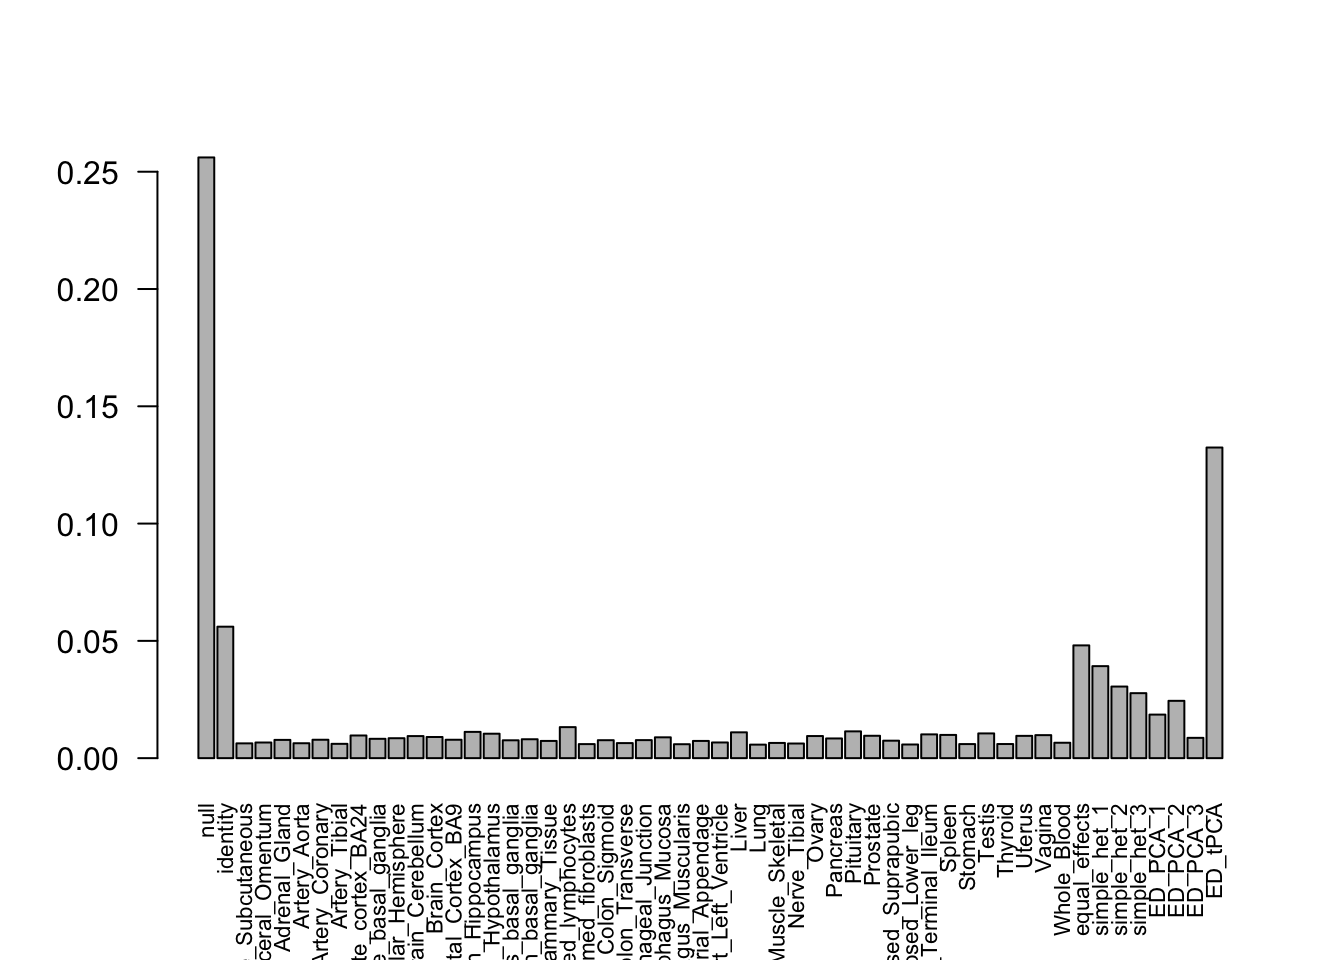
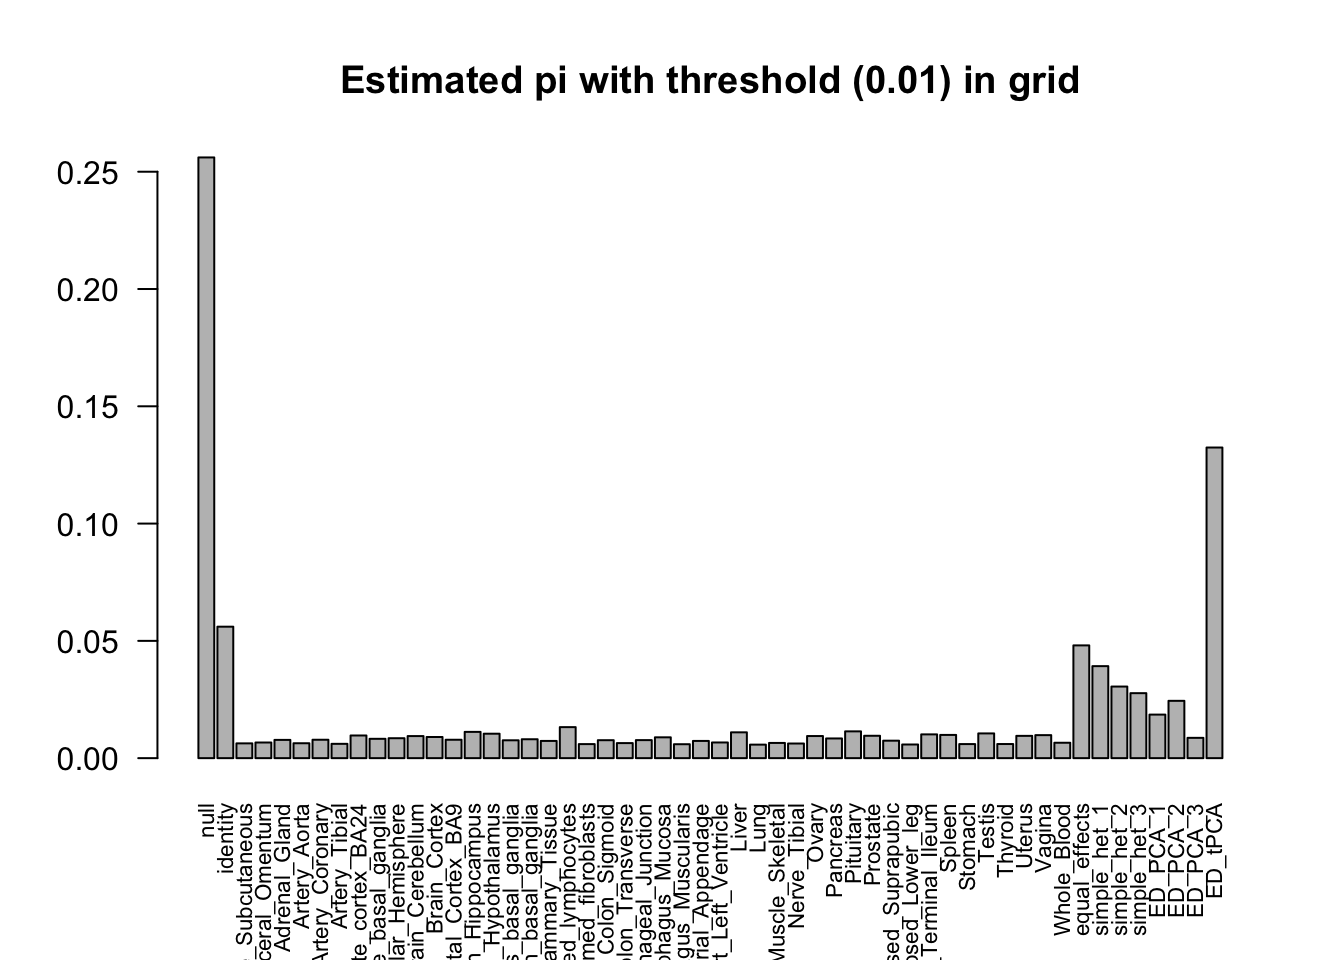
Build site.

Changed region(s): [[0.25, 0.0625, 0.8125, 0.125]]

diff --git a/docs/MashLowSignalGTEx3.5.html b/docs/MashLowSignalGTEx3.5.html
@@ -365,7 +365,7 @@ div.section {
 </details>
 </li>
 <li>
-<p><details> <summary> <strong style="color:blue;">✔</strong> <strong>Repository version:</strong> <a href="https://github.com/zouyuxin/mash_application/tree/ef3e8e3743b94c08abe07d7094e57886d54ce0db" target="_blank">ef3e8e3</a> </summary></p>
+<p><details> <summary> <strong style="color:blue;">✔</strong> <strong>Repository version:</strong> <a href="https://github.com/zouyuxin/mash_application/tree/f17adecfa5339b12f5823d3b1c12d9497f1f21fb" target="_blank">f17adec</a> </summary></p>
 Great! You are using Git for version control. Tracking code development and connecting the code version to the results is critical for reproducibility. The version displayed above was the version of the Git repository at the time these results were generated. <br><br> Note that you need to be careful to ensure that all relevant files for the analysis have been committed to Git prior to generating the results (you can use <code>wflow_publish</code> or <code>wflow_git_commit</code>). workflowr only checks the R Markdown file, but you know if there are other scripts or data files that it depends on. Below is the status of the Git repository when the results were generated:
 <pre><code>
 Ignored files:
@@ -509,6 +509,40 @@ Message
 Rmd
 </td>
 <td style="text-align:left;">
+<a href="https://github.com/zouyuxin/mash_application/blob/f17adecfa5339b12f5823d3b1c12d9497f1f21fb/analysis/MashLowSignalGTEx3.5.Rmd" target="_blank">f17adec</a>
+</td>
+<td style="text-align:left;">
+zouyuxin
+</td>
+<td style="text-align:left;">
+2018-08-31
+</td>
+<td style="text-align:left;">
+wflow_publish(“analysis/MashLowSignalGTEx3.5.Rmd”)
+</td>
+</tr>
+<tr>
+<td style="text-align:left;">
+html
+</td>
+<td style="text-align:left;">
+<a href="https://cdn.rawgit.com/zouyuxin/mash_application/e1bff266890d2b8d306d4a64cb6220683c31ce40/docs/MashLowSignalGTEx3.5.html" target="_blank">e1bff26</a>
+</td>
+<td style="text-align:left;">
+zouyuxin
+</td>
+<td style="text-align:left;">
+2018-08-31
+</td>
+<td style="text-align:left;">
+Build site.
+</td>
+</tr>
+<tr>
+<td style="text-align:left;">
+Rmd
+</td>
+<td style="text-align:left;">
 <a href="https://github.com/zouyuxin/mash_application/blob/ef3e8e3743b94c08abe07d7094e57886d54ce0db/analysis/MashLowSignalGTEx3.5.Rmd" target="_blank">ef3e8e3</a>
 </td>
 <td style="text-align:left;">
@@ -633,7 +667,7 @@ wflow_publish(“analysis/MashLowSignalGTEx3.5.Rmd”)
 <pre class="r"><code>library(knitr)
 library(kableExtra)</code></pre>
 <p>There are two random sets in the <a href="https://github.com/stephenslab/gtexresults/blob/master/data/MatrixEQTLSumStats.Portable.Z.rds?raw=TRUE">GTEx summary data set</a>. We don’t know the null in the real data. If we have the individual level data, we can do a permutation to generate null. With the summary statistics, we select the null set using threshold on z scores.</p>
-<p>Using qvalues 0.05 as the threshold, the corresponding non-significant |z| value is around 3.1. Since lfsr and lfdr are both more conservative than q values, we select the samples with <span class="math inline">\(\max_{r} |Z_{jr}| &lt; 3.5\)</span> from each data set as the null set. We estimate data driven covariance matrices from data 1, estimate noise correlation from data 2, fit mash model on data 2 and calculate posterior on data 1.</p>
+<p>Using qvalues 0.05 as the threshold, the corresponding non-significant |z| values are less than 3.5. We select the samples with <span class="math inline">\(\max_{r} |Z_{jr}| &lt; 3.5\)</span> from each data set as the null set. We estimate data driven covariance matrices from data 1, estimate noise correlation from data 2, fit mash model on data 2 and calculate posterior on data 1.</p>
 <pre class="r"><code>data = readRDS(&#39;../output/GTEx_3.5_nullData.rds&#39;)
 model = readRDS(&#39;../output/GTEx_3.5_nullModel.rds&#39;)</code></pre>
 <p>Sample size:</p>
@@ -660,8 +694,39 @@ data 2
 </tr>
 </tbody>
 </table>
+<p>The estimated weights from data 2 is</p>
 <pre class="r"><code>barplot(get_estimated_pi(model), las=2, cex.names = 0.7)</code></pre>
 <p><img src="figure/MashLowSignalGTEx3.5.Rmd/unnamed-chunk-4-1.png" width="672" style="display: block; margin: auto;" /></p>
+<details> <summary><em>Expand here to see past versions of unnamed-chunk-4-1.png:</em></summary>
+<table style="border-collapse:separate; border-spacing:5px;">
+<thead>
+<tr>
+<th style="text-align:left;">
+Version
+</th>
+<th style="text-align:left;">
+Author
+</th>
+<th style="text-align:left;">
+Date
+</th>
+</tr>
+</thead>
+<tbody>
+<tr>
+<td style="text-align:left;">
+<a href="https://github.com/zouyuxin/mash_application/blob/e1bff266890d2b8d306d4a64cb6220683c31ce40/docs/figure/MashLowSignalGTEx3.5.Rmd/unnamed-chunk-4-1.png" target="_blank">e1bff26</a>
+</td>
+<td style="text-align:left;">
+zouyuxin
+</td>
+<td style="text-align:left;">
+2018-08-31
+</td>
+</tr>
+</tbody>
+</table>
+<p></details></p>
 <p>The estimated weights <span class="math inline">\(\hat{\pi}\)</span> on null part is not large. The weight on the other covariance structures may concentrate on the small grid (small <span class="math inline">\(\omega_{l}\)</span>). So they are very close to null, but we cannot view it in the plot. I modified the <code>get_estimated_pi</code> function to have a threshold for grid. The weights on the grid less than the threshold are merged into the null part.</p>
 <pre class="r"><code>get_estimated_pi = function(m, dimension = c(&quot;cov&quot;, &quot;grid&quot;, &quot;all&quot;), thres = NULL){
   dimension = match.arg(dimension)
@@ -696,7 +761,7 @@ data 2
       return(pihat)
   }
 }</code></pre>
-<pre class="r"><code>barplot(get_estimated_pi(model, thres = 0.01), las=2, cex.names = 0.7)</code></pre>
+<pre class="r"><code>barplot(get_estimated_pi(model, thres = 0.01), las=2, cex.names = 0.7, main=&#39;Estimated pi with threshold (0.01) in grid&#39;)</code></pre>
 <p><img src="figure/MashLowSignalGTEx3.5.Rmd/unnamed-chunk-6-1.png" width="672" style="display: block; margin: auto;" /></p>
 <details> <summary><em>Expand here to see past versions of unnamed-chunk-6-1.png:</em></summary>
 <table style="border-collapse:separate; border-spacing:5px;">
@@ -791,6 +856,7 @@ data 2
 </tr>
 </tbody>
 </table>
+<p>The estimated weights from data 2 is</p>
 <pre class="r"><code>barplot(get_estimated_pi(model), las=2, cex.names = 0.7, main = &#39;Estiamted pi&#39;)</code></pre>
 <p><img src="figure/MashLowSignalGTEx3.5.Rmd/unnamed-chunk-10-1.png" width="672" style="display: block; margin: auto;" /></p>
 <details> <summary><em>Expand here to see past versions of unnamed-chunk-10-1.png:</em></summary>
@@ -811,6 +877,17 @@ Date
 <tbody>
 <tr>
 <td style="text-align:left;">
+<a href="https://github.com/zouyuxin/mash_application/blob/e1bff266890d2b8d306d4a64cb6220683c31ce40/docs/figure/MashLowSignalGTEx3.5.Rmd/unnamed-chunk-10-1.png" target="_blank">e1bff26</a>
+</td>
+<td style="text-align:left;">
+zouyuxin
+</td>
+<td style="text-align:left;">
+2018-08-31
+</td>
+</tr>
+<tr>
+<td style="text-align:left;">
 <a href="https://github.com/zouyuxin/mash_application/blob/e9f5a3480a5a6f13c7a1f3c63b451c6d33b3fd4a/docs/figure/MashLowSignalGTEx3.5.Rmd/unnamed-chunk-10-1.png" target="_blank">e9f5a34</a>
 </td>
 <td style="text-align:left;">
@@ -823,7 +900,7 @@ zouyuxin
 </tbody>
 </table>
 <p></details></p>
-<pre class="r"><code>barplot(get_estimated_pi(model, thres = 0.01), las=2, cex.names = 0.7, main=&#39;Estimated pi with threshold (0.01) in scale&#39;)</code></pre>
+<pre class="r"><code>barplot(get_estimated_pi(model, thres = 0.01), las=2, cex.names = 0.7, main=&#39;Estimated pi with threshold (0.01) in grid&#39;)</code></pre>
 <p><img src="figure/MashLowSignalGTEx3.5.Rmd/unnamed-chunk-11-1.png" width="672" style="display: block; margin: auto;" /></p>
 <details> <summary><em>Expand here to see past versions of unnamed-chunk-11-1.png:</em></summary>
 <table style="border-collapse:separate; border-spacing:5px;">
@@ -841,6 +918,17 @@ Date
 </tr>
 </thead>
 <tbody>
+<tr>
+<td style="text-align:left;">
+<a href="https://github.com/zouyuxin/mash_application/blob/e1bff266890d2b8d306d4a64cb6220683c31ce40/docs/figure/MashLowSignalGTEx3.5.Rmd/unnamed-chunk-11-1.png" target="_blank">e1bff26</a>
+</td>
+<td style="text-align:left;">
+zouyuxin
+</td>
+<td style="text-align:left;">
+2018-08-31
+</td>
+</tr>
 <tr>
 <td style="text-align:left;">
 <a href="https://github.com/zouyuxin/mash_application/blob/e9f5a3480a5a6f13c7a1f3c63b451c6d33b3fd4a/docs/figure/MashLowSignalGTEx3.5.Rmd/unnamed-chunk-11-1.png" target="_blank">e9f5a34</a>
